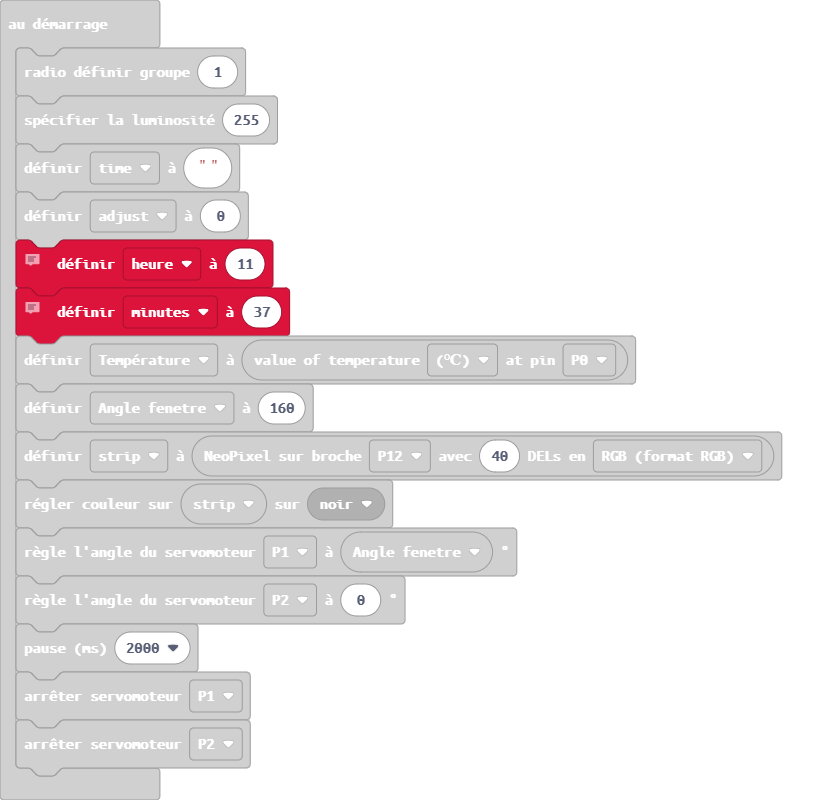
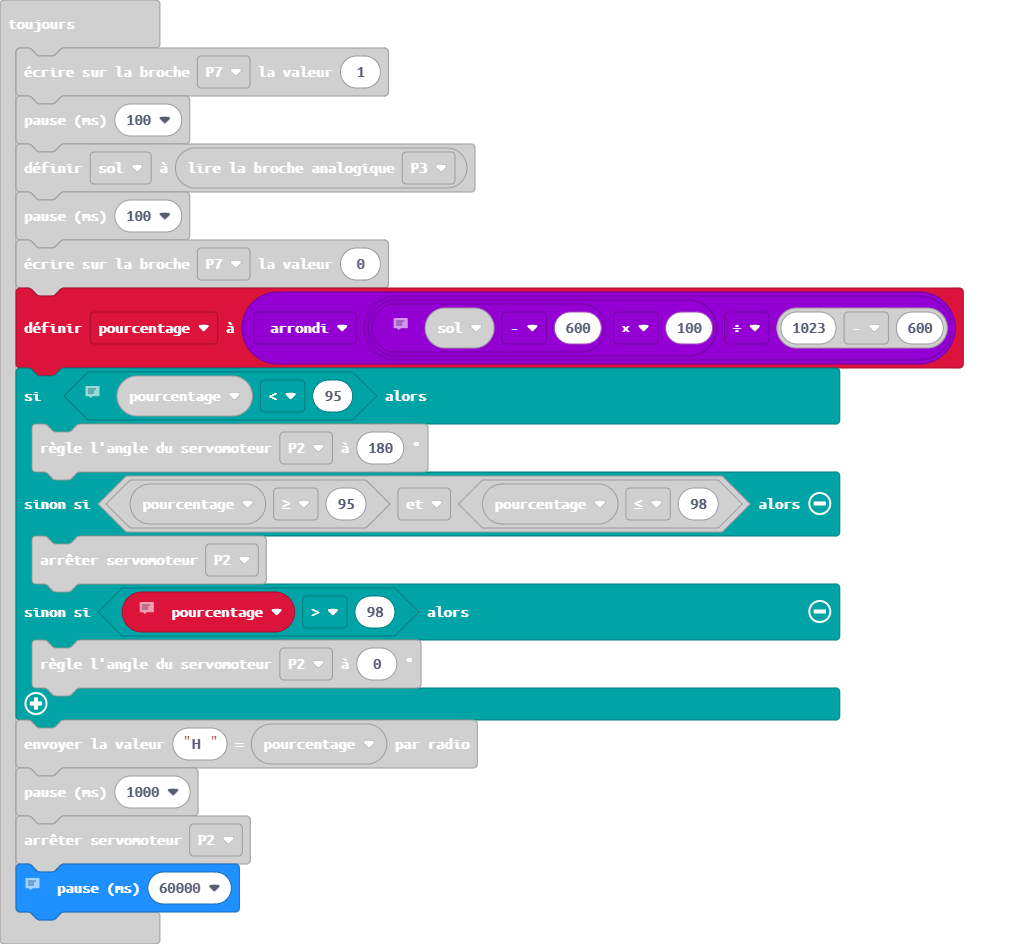
Mise à jour main.blocks, main.ts

diff --git a/main.ts b/main.ts
@@ -65,8 +65,8 @@ basic.forever(function () {
     radio.sendValue("H ", pourcentage)
     basic.pause(1000)
     servos.P2.stop()
-    // 1 heure avant la prochaine mesure
-    basic.pause(3600000)
+    // 1 minute avant la prochaine mesure
+    basic.pause(60000)
 })
 basic.forever(function () {
     // Calibrer votre sonde avec un autre thermomètre et ajuster le calcul en conséquence.
